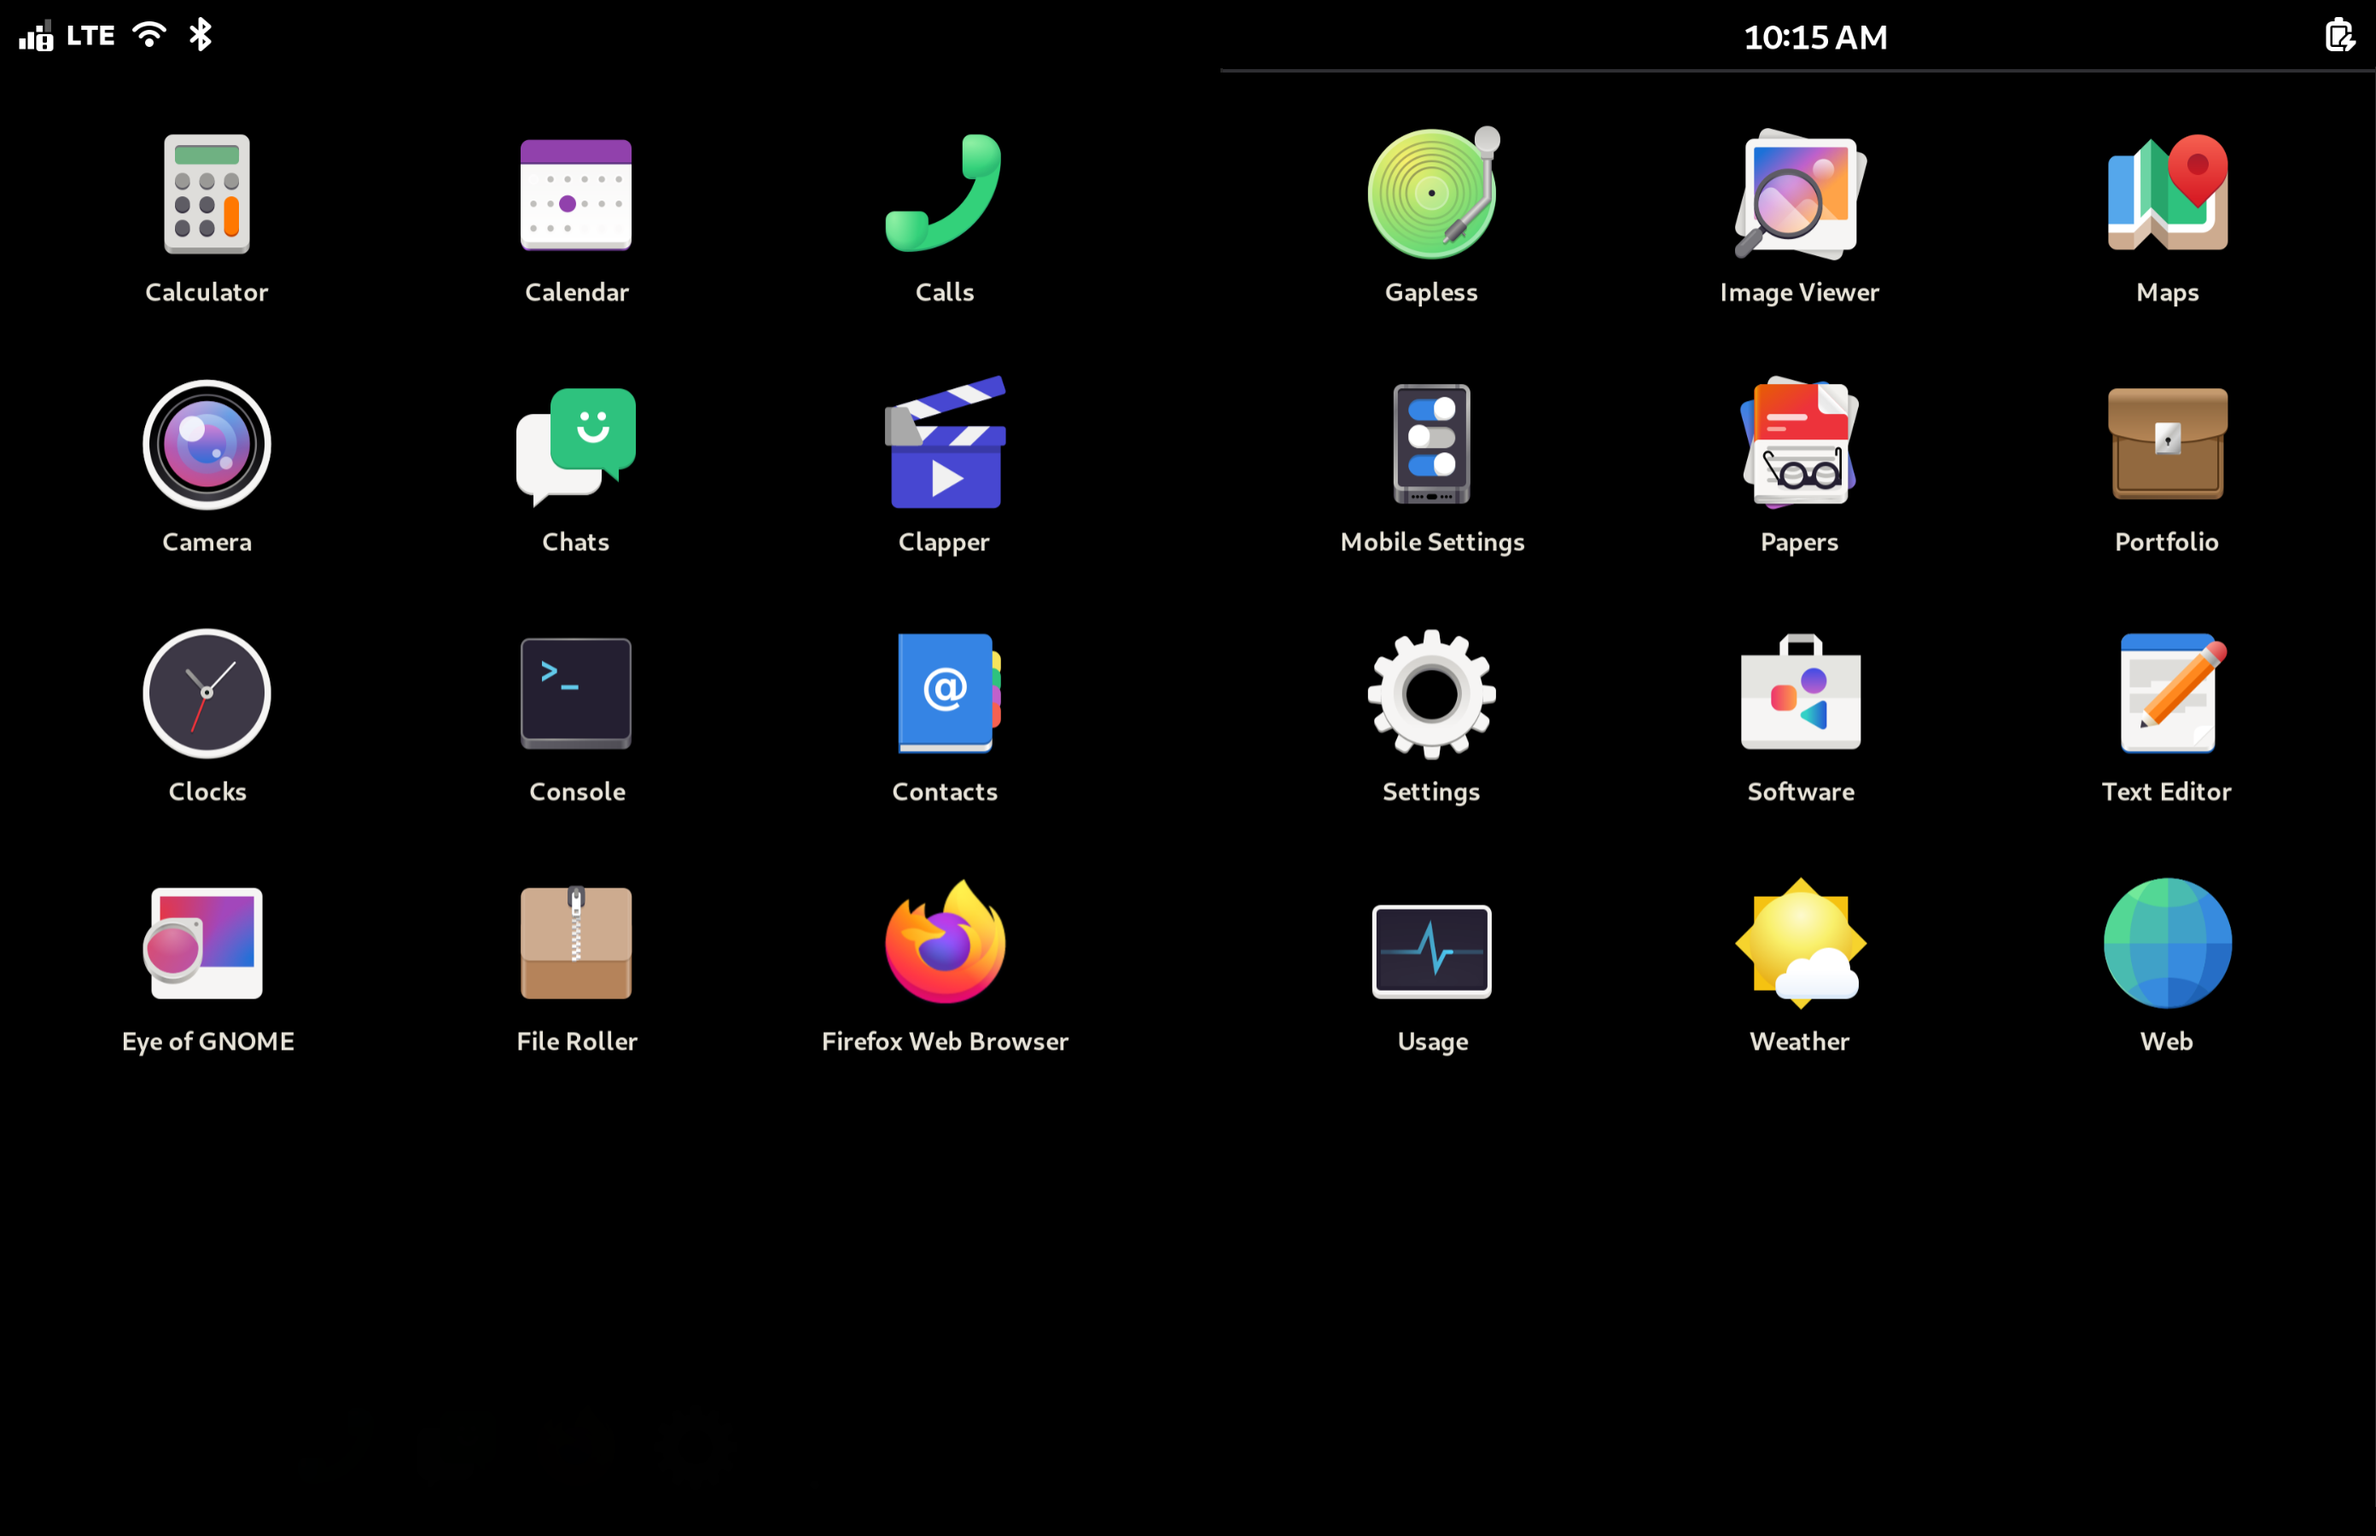
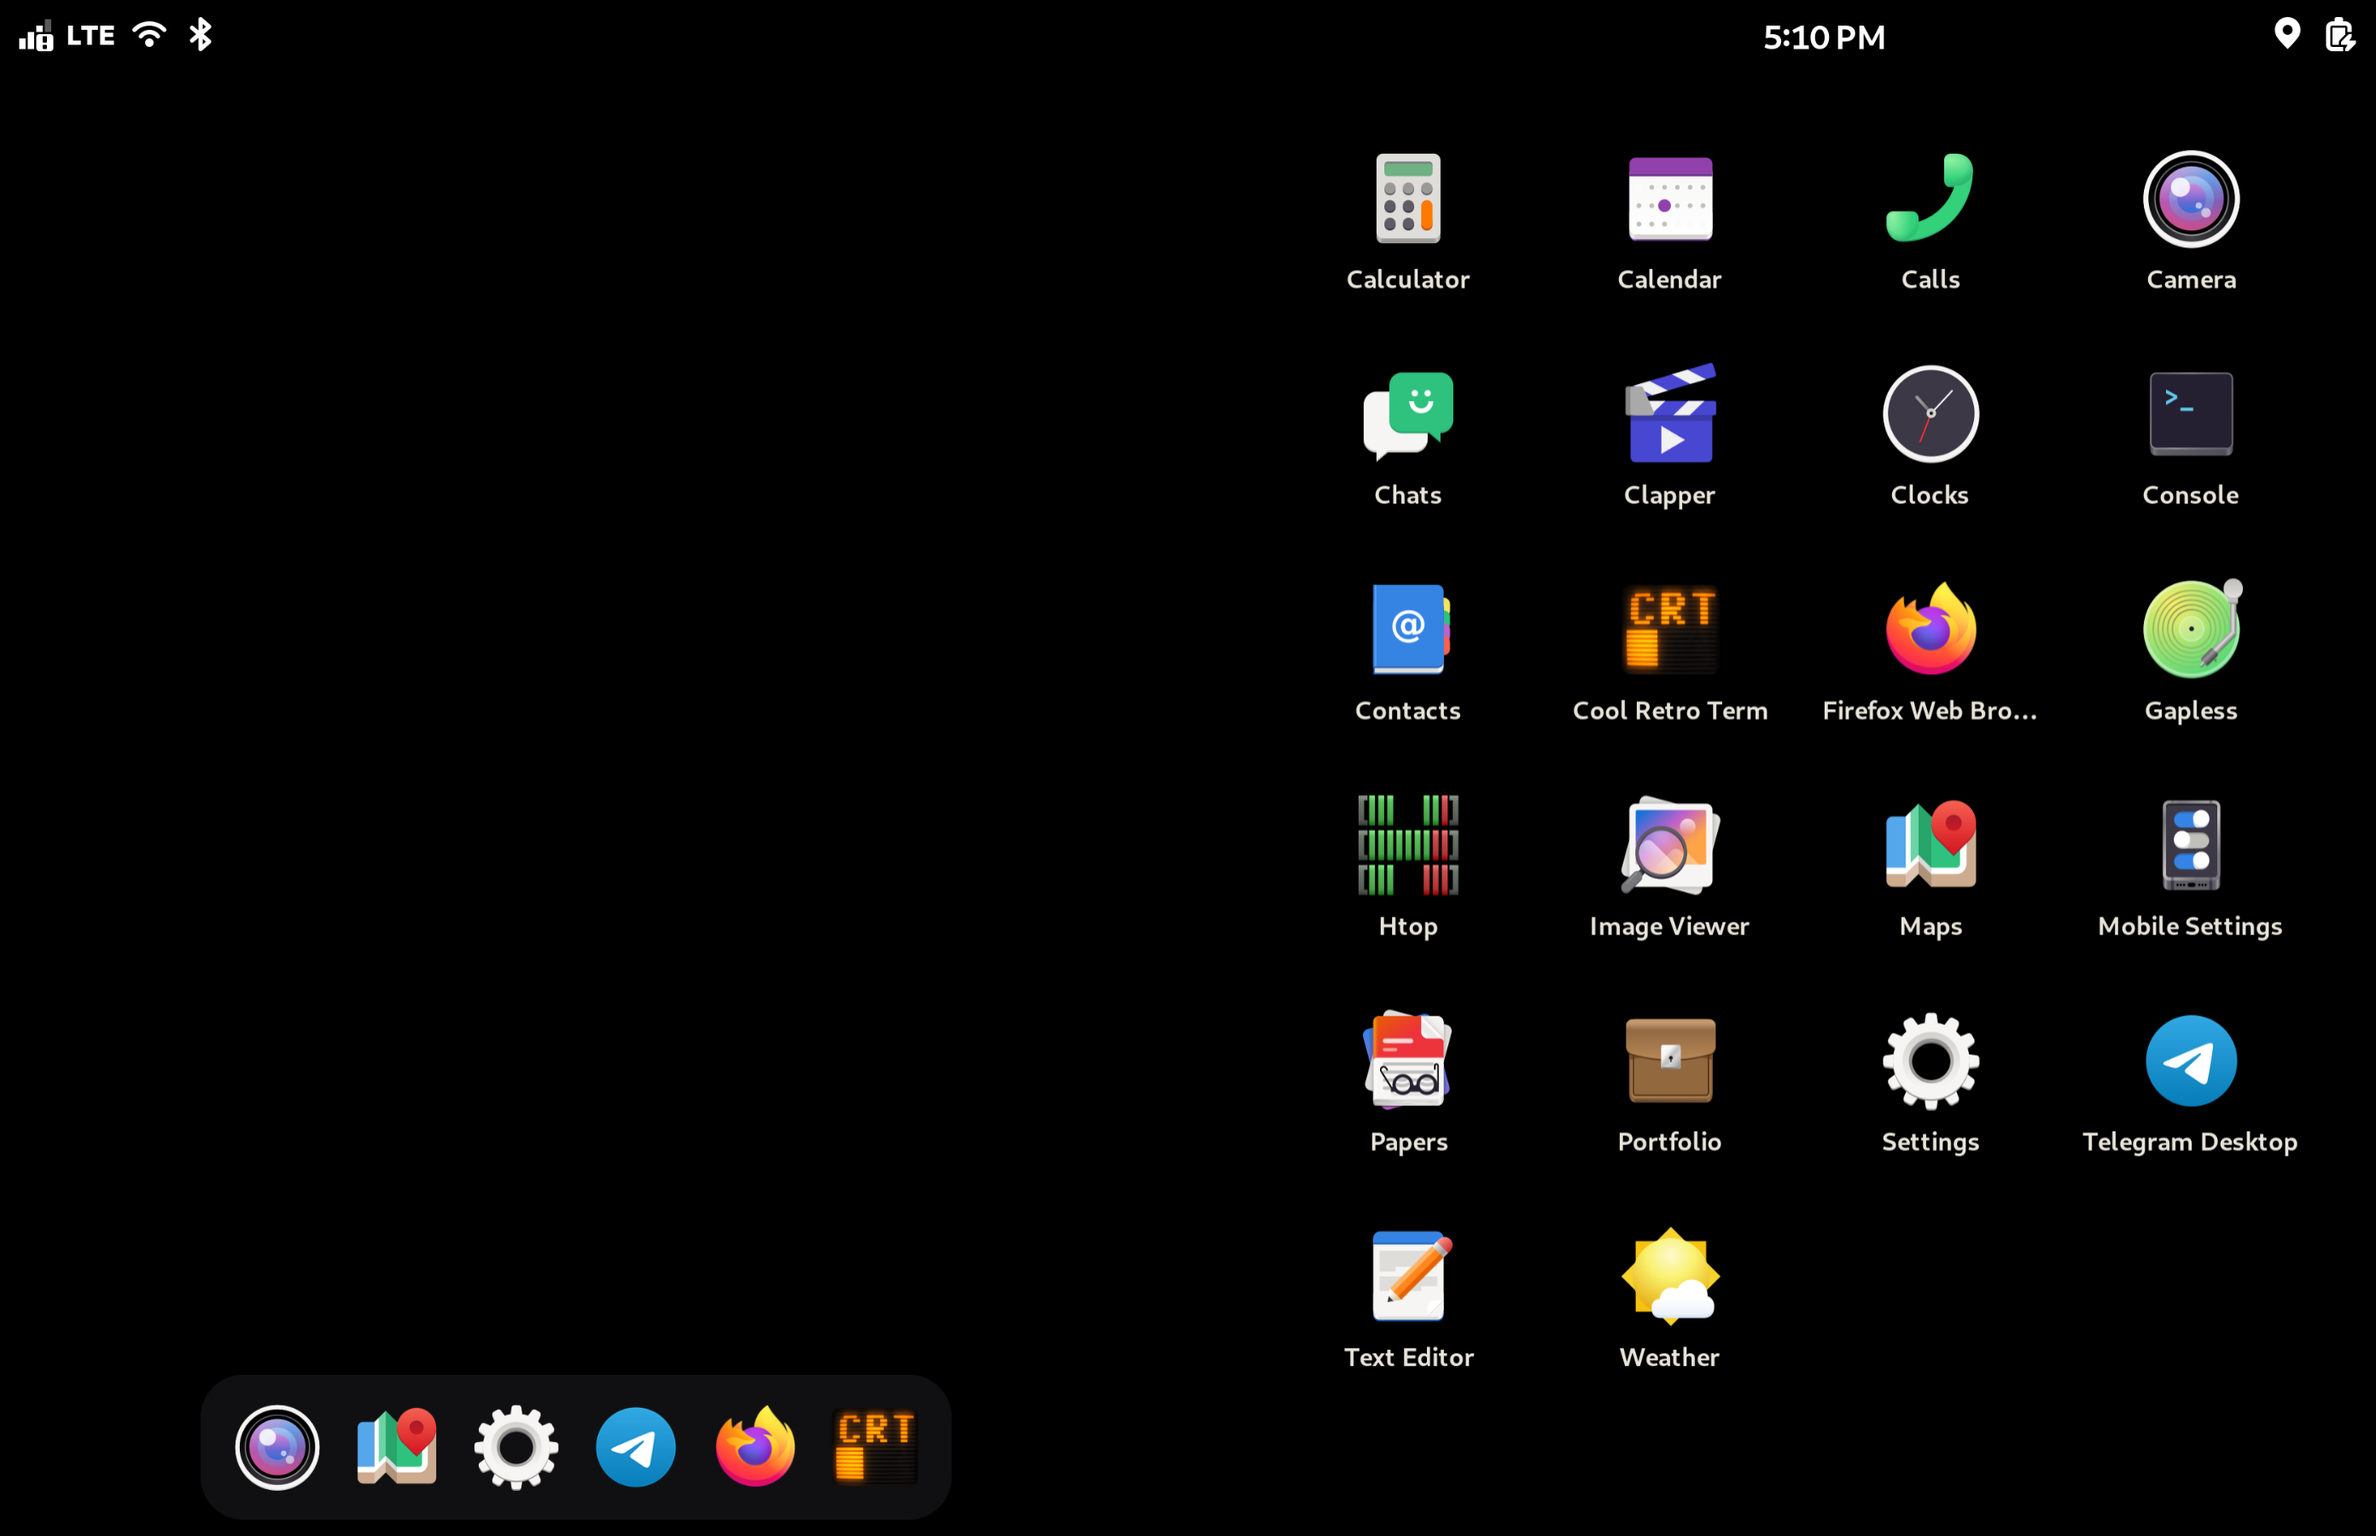
shell: 0.15.2 - the app grid opens on the panel that was swiped
Swipe up on a free panel and every application is there, four to a row
at the dock's icon size, alphabetical and scrolling; the other panel keeps
what it was showing and stays touchable - the dock's input region is the
grid's half and the other panel's strip. The open grid counts as a window
on its panel, so the dock crosses to the other one as it does for an
application. Both panels keep a pane so the geometry stays put; only the
swiped one is drawn and hears touches. The grid screenshot is retaken.

diff --git a/adaptation/shell/README.md b/adaptation/shell/README.md
@@ -230,13 +230,16 @@ for its home bar - the grid shows through it otherwise. The top panel is spared
 by hand, with a 32px top margin, because a status bar is worth keeping.
 
 Everything that is not on the dock is behind a swipe up across the strip
-(or the first button): a grid of every application, dealt across the two
-panels alphabetically - the first half on the left, the second on the right,
-three columns each, each half scrolling on its own - and launching onto the
-panel that was tapped, exactly like the dock. The strip fades as the grid
-rises over it. Moving down across the grid, a tap on empty space, or
+(or the first button): a grid of every application on the panel that was
+swiped - alphabetical, four to a row at the dock's icon size, scrolling -
+while the other panel keeps what it was showing and stays touchable. The
+open grid counts as a window on its panel, so the dock crosses to the other
+one exactly as it does for an application. Launching goes onto the panel
+the grid is on. Moving down across the grid, a tap on empty space, or
 launching something closes it. `pkill -USR1 -f sfduo-dock` toggles it from
-outside, for a keybinding.
+outside, for a keybinding (on the panel it was last opened on; the right one
+at first). Until 0.15.2 the grid was dealt across both panels, half the
+alphabet each, at phosh's 64 px icons.
 
 The grid follows the finger, and the window does no work at the moment of
 opening. Three things make that so, each found by doing it the other way

diff --git a/README.md b/README.md
@@ -31,7 +31,7 @@ in development**.
 | ![the first-run wizard on one panel](docs/img/shell-welcome.png) | ![the dock across both panels](docs/img/shell-desktop.png) |
 | A window on the panel it opened on: the dock tiles it there, and the patched phoc stops it at the hinge rather than half way into it. | The dock, cut by the hinge rather than doubled. |
 | ![the app grid](docs/img/shell-grid.png) | ![the lock screen](docs/img/shell-lockscreen.png) |
-| Swipe up from the dock: every app, dealt across the two panels. | The lock screen, kept off the hinge by CSS alone. |
+| Swipe up on a panel: every app, on that panel, and the dock crosses to the other. | The lock screen, kept off the hinge by CSS alone. |
 
 ## Status (2026-09-17)
 
